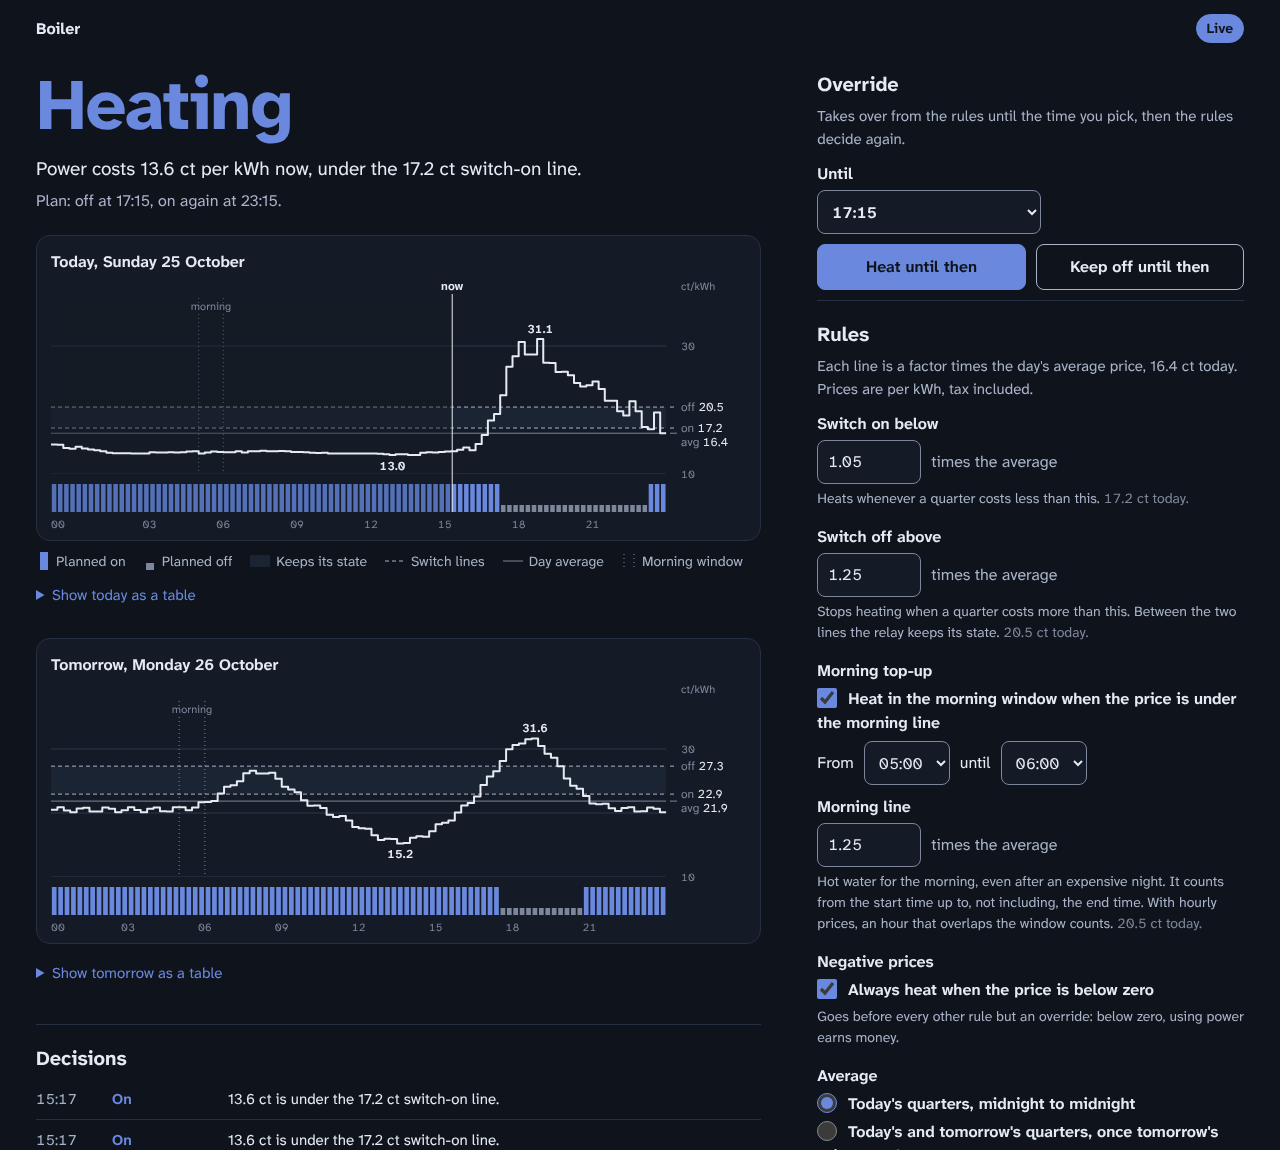
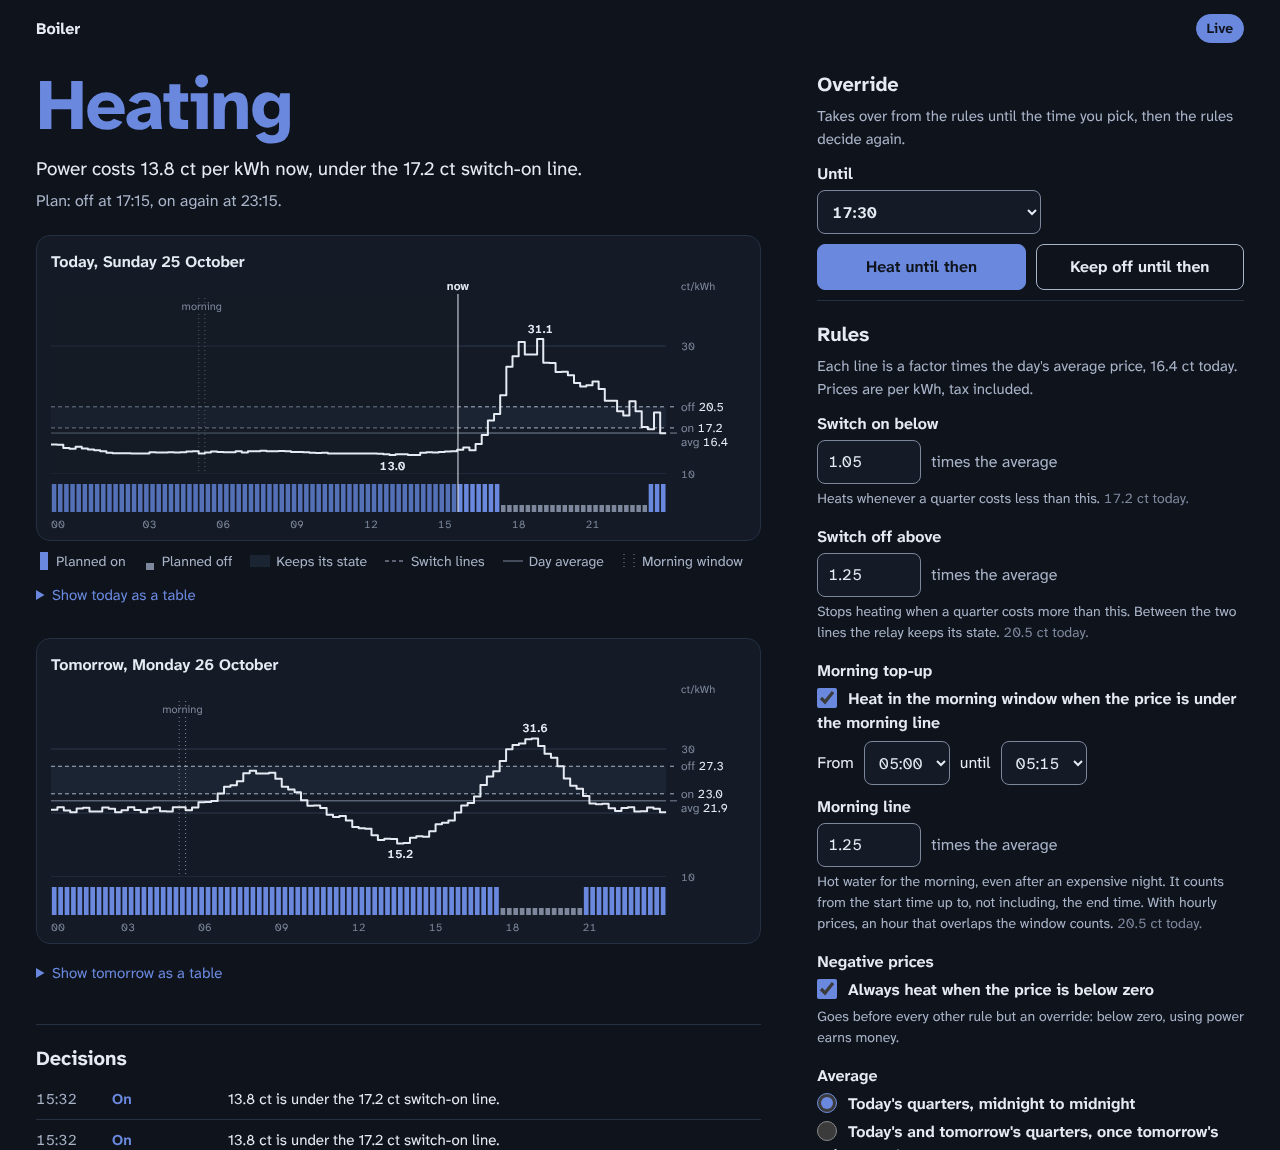
fix: match the live boiler2.sh script, with 3-decimal lines
- The morning rule defaults to the 05:00 quarter only (05:00 to 05:15), as
  the script checks hour 05 and minute 00.
- Lines are factor x the unrounded average, rounded to 3 decimals (0.1 ct),
  so each is at most 0.05 ct from the script's `bc -l` line.
- The README rules table now compares with the live script (1.05/1.25),
  and the docs screenshots show the new morning window.

Claude-Session: https://claude.ai/code/session_016Qm4f92U5yX2oHjW87uW27

diff --git a/shelly_control/templates/index.html b/shelly_control/templates/index.html
@@ -212,7 +212,7 @@
       <li>Over the switch-off line: stop heating.</li>
       <li>Otherwise the relay keeps its state, and nothing is sent.</li>
     </ol>
-    <p>The lines are worked out to four decimals of a euro, as the old script did, and a price exactly on a line keeps the state. Shadow mode makes and logs the same decisions, but only an override switches the relay, and nothing switches it back afterwards. A command is only sent when the relay is not already where the rules want it, and never twice in quick succession.</p>
+    <p>The lines are worked out to 0.1 ct, and a price exactly on a line keeps the state. Shadow mode makes and logs the same decisions, but only an override switches the relay, and nothing switches it back afterwards. A command is only sent when the relay is not already where the rules want it, and never twice in quick succession.</p>
   </details>
 </section>
 </div>

diff --git a/shelly_control/rules.py b/shelly_control/rules.py
@@ -12,15 +12,16 @@ The rules come from the cron script this service replaces, in its order:
 4. a price over the switch-off line switches off;
 5. anything else keeps the relay as it is, and nothing is sent.
 
-Each line is a factor times the day's average price, cut to four decimals the
-way the script's `bc` (scale=4) did, in decimal rather than binary floating
-point. The comparisons are strict, as in the script: a price exactly on a
-line keeps the state.
+Each line is a factor times the day's average price, worked out in decimal
+and rounded to 3 decimals (0.1 ct per kWh, the precision the page shows). The
+comparisons are strict, as in the script: a price exactly on a line keeps the
+state.
 
-The defaults are the factors that reproduce the relay log of the live
-script: 1.05 and 1.25 (the replay matched all five logged switches at the
-exact quarter). The script's published copy says 1.20 and 1.50; the log
-rules those out.
+The defaults are those of the live script (boiler2.sh): on below 1.05 and off
+above 1.25 times the average, and the morning rule only in the 05:00 quarter,
+with the 1.25 line. A replay of the relay log matched all five logged
+switches at the exact quarter with these factors. An older published copy of
+the script said 1.20 and 1.50; the log rules those out.
 """
 
 from __future__ import annotations
@@ -29,7 +30,7 @@ import datetime as dt
 import math
 from collections.abc import Mapping
 from dataclasses import dataclass, replace
-from decimal import ROUND_DOWN, Decimal
+from decimal import ROUND_HALF_UP, Decimal
 from zoneinfo import ZoneInfo
 
 from .prices import PriceBook, Slot, is_complete, local_day
@@ -63,7 +64,7 @@ class Settings:
     off_factor: float = 1.25
     morning_enabled: bool = True
     morning_start: dt.time = dt.time(5, 0)
-    morning_end: dt.time = dt.time(6, 0)
+    morning_end: dt.time = dt.time(5, 15)
     morning_factor: float = 1.25
     negative_enabled: bool = True
     average_window: str = "day"
@@ -291,7 +292,7 @@ class Lines:
     morning_line: float
 
 
-_FOUR_PLACES = Decimal("0.0001")
+_PRECISION = Decimal("0.001")
 
 
 def _decimal(value: float) -> Decimal:
@@ -299,17 +300,19 @@ def _decimal(value: float) -> Decimal:
     return Decimal(repr(value))
 
 
-def _cut(value: Decimal) -> Decimal:
-    """Four decimals, cut off rather than rounded, as `bc` with scale=4 did in the script."""
-    return value.quantize(_FOUR_PLACES, rounding=ROUND_DOWN)
+def _rounded(value: Decimal) -> Decimal:
+    """Three decimals, 0.1 ct per kWh: the precision the page shows."""
+    return value.quantize(_PRECISION, rounding=ROUND_HALF_UP)
 
 
 def lines_for(settings: Settings, book: PriceBook, day: dt.date, tz: ZoneInfo) -> Lines | None:
     """The lines of one local day, or None if that day's prices are incomplete.
 
     Worked out in decimal, so a price the exporter writes as 0.21 is exactly on
-    a line of 0.2100, and keeps the state, as it did in the script. In binary
+    a line of 0.210, and keeps the state, as it did in the script. In binary
     floating point 1.05 x 0.2 is 0.21000000000000002, and 0.21 would be "under" it.
+    Each line comes from the unrounded average, so it is at most 0.05 ct from
+    the script's.
     """
     slots = book.day(day, tz)
     if not is_complete(slots, day, tz):
@@ -322,12 +325,12 @@ def lines_for(settings: Settings, book: PriceBook, day: dt.date, tz: ZoneInfo) -
     # Weighted by length, so a day of hourly fallback prices averages the same
     # way; for a day of equal slots this is the plain mean the script used.
     seconds = sum(s.seconds for s in pool)
-    average = _cut(sum(_decimal(s.total) * s.seconds for s in pool) / seconds)
+    average = sum(_decimal(s.total) * s.seconds for s in pool) / seconds
     return Lines(
-        average=float(average),
-        on_line=float(_cut(_decimal(settings.on_factor) * average)),
-        off_line=float(_cut(_decimal(settings.off_factor) * average)),
-        morning_line=float(_cut(_decimal(settings.morning_factor) * average)),
+        average=float(_rounded(average)),
+        on_line=float(_rounded(_decimal(settings.on_factor) * average)),
+        off_line=float(_rounded(_decimal(settings.off_factor) * average)),
+        morning_line=float(_rounded(_decimal(settings.morning_factor) * average)),
     )
 
 

diff --git a/tests/test_rules.py b/tests/test_rules.py
@@ -49,7 +49,7 @@ def test_defaults_are_the_factors_that_reproduce_the_relay_log():
     assert (s.morning_enabled, s.morning_start, s.morning_end) == (
         True,
         dt.time(5),
-        dt.time(6),
+        dt.time(5, 15),
     )
     assert s.morning_factor == 1.25
     assert s.negative_enabled is True
@@ -94,12 +94,12 @@ def test_a_price_exactly_on_a_line_built_from_prices_keeps_the_state():
     assert decision.rule == "between" and decision.action == "keep"
 
 
-def test_lines_are_cut_to_four_decimals_like_bc():
-    # The average 0.20005 is 0.2000 for bc with scale=4, and so the lines.
-    book = book_of(make_day(NORMAL_DAY, lambda i, local: 0.2001 if i % 2 else 0.2))
+def test_lines_are_rounded_to_three_decimals():
+    # The average 0.2005 shows as 0.201; the line is 1.5 x 0.2005 = 0.30075, so 0.301.
+    book = book_of(make_day(NORMAL_DAY, lambda i, local: 0.201 if i % 2 else 0.2))
     lines = lines_for(Settings(on_factor=1.5), book, NORMAL_DAY, TZ)
-    assert lines.average == 0.2
-    assert lines.on_line == 0.3
+    assert lines.average == 0.201
+    assert lines.on_line == 0.301
 
 
 def test_negative_rule_can_be_turned_off():
@@ -121,11 +121,21 @@ def test_an_average_at_or_below_zero_switches_nothing_but_negative_prices_still_
 def test_morning_window_includes_its_start_and_excludes_its_end(hour, minute, inside):
     # Every quarter costs the same; only the morning line is above that price.
     book = book_of(make_day(NORMAL_DAY, flat(0.20)))
-    settings = Settings(on_factor=0.9, off_factor=1.3, morning_factor=1.1)
+    settings = Settings(on_factor=0.9, off_factor=1.3, morning_factor=1.1, morning_end=dt.time(6))
     decision = decide(settings, book, at(NORMAL_DAY, hour, minute, 30), False, None, TZ)
     assert decision.morning is inside
     assert decision.rule == ("morning" if inside else "between")
     assert decision.target is inside
+
+
+@pytest.mark.parametrize(
+    ("hour", "minute", "inside"), [(4, 45, False), (5, 0, True), (5, 15, False)]
+)
+def test_the_default_morning_window_is_the_0500_quarter_like_the_script(hour, minute, inside):
+    # The live script checks hour == 05 and minute == 00, and cron runs it each quarter.
+    book = book_of(make_day(NORMAL_DAY, flat(0.20)))
+    decision = decide(Settings(), book, at(NORMAL_DAY, hour, minute, 30), False, None, TZ)
+    assert decision.morning is inside
 
 
 def test_morning_window_off_the_hour_works_with_hourly_prices():

diff --git a/tests/test_chart.py b/tests/test_chart.py
@@ -103,8 +103,8 @@ def test_a_partial_day_is_drawn_on_the_whole_day():
 def test_the_morning_window_and_its_own_line_are_drawn():
     settings = Settings(morning_factor=1.10)
     plan, model = chart_for(NORMAL_DAY, at(NORMAL_DAY, 12), settings=settings)
-    assert model.morning.x == minutes(NORMAL_DAY, 5) and model.morning.width == 60
-    assert model.morning_line[:2] == (300, 360)
+    assert model.morning.x == minutes(NORMAL_DAY, 5) and model.morning.width == 15
+    assert model.morning_line[:2] == (300, 315)
     assert "morn" in [r.name for r in model.refs]
     assert any(label.text == "morning" for label in model.labels)
     # With the morning line on the switch-off line, there is no second line to draw.

diff --git a/tests/test_web.py b/tests/test_web.py
@@ -21,7 +21,7 @@ FORM = {
     "off_factor": "1.30",
     "morning_enabled": "on",
     "morning_start": "05:00",
-    "morning_end": "06:00",
+    "morning_end": "05:15",
     "morning_factor": "1.25",
     "negative_enabled": "on",
     "average_window": "day",

diff --git a/README.md b/README.md
@@ -91,14 +91,14 @@ Three layers, each one you can check in a few minutes:
 Every quarter hour, a few seconds after it starts, the first rule that applies
 decides:
 
-| # | Rule | Default | The cron script |
+| # | Rule | Default | The live script (`boiler2.sh`) |
 |---|---|---|---|
 | 1 | **Override**: on or off until a time you pick, then back to the rules | none | (none) |
-| 2 | **No usable price**: no price for this quarter, or not all of today's prices | always | exits without acting |
+| 2 | **No usable price**: no price for this quarter, or not all of today's prices | always | no current price: exits without acting |
 | 3 | **Negative prices**: below zero, heat | on | `price < 0 → on` |
-| 4 | **Morning top-up**: inside the window and under the morning line, heat | on, 05:00 to 06:00, line 1.25 × average | `hour 05 and price < 1.5 × average → on` |
-| 5 | **Switch-on line**: under it, heat | 1.05 × average | `price < 1.2 × average → on` |
-| 6 | **Switch-off line**: over it, stop heating | 1.25 × average | `price > 1.5 × average → off` |
+| 4 | **Morning top-up**: inside the window and under the morning line, heat | on, the 05:00 quarter (05:00 to 05:15), line 1.25 × average | `05:00 and price < 1.25 × average → on` |
+| 5 | **Switch-on line**: under it, heat | 1.05 × average | `price < 1.05 × average → on` |
+| 6 | **Switch-off line**: over it, stop heating | 1.25 × average | `price > 1.25 × average → off` |
 | 7 | **Between the lines**: the relay keeps its state, nothing is sent | | no action |
 
 In plain words: a quarter that costs less than the switch-on line heats, a
@@ -111,27 +111,31 @@ The page can also average today's and tomorrow's quarters once tomorrow's
 prices are known (`day_and_next`; the default is `day`). Prices are Tibber's
 `total`: energy plus tax, per kWh.
 
-The average and the lines are worked out in decimal and cut to four decimals,
-as the script's `bc` (with `scale=4`) did, so a price the exporter writes as
-`0.21` is exactly on a `0.2100` line and keeps the state. Factors take at most
-two decimals.
+The average and the lines are worked out in decimal and rounded to three
+decimals (0.1 ct, as the page shows them), so a price the exporter writes as
+`0.21` is exactly on a `0.210` line and keeps the state. The script's `bc -l`
+keeps 20 decimals; a line here is at most 0.05 ct from the script's.
+Factors take at most two decimals.
 
 The morning window counts a quarter that starts inside it (from the start time
-up to, not including, the end time). With the exporter's hourly fallback
-prices, an hour that overlaps the window counts.
+up to, not including, the end time). The default is the 05:00 quarter only:
+the script runs every quarter and checks for 05:00 exactly. With the
+exporter's hourly fallback prices, an hour that overlaps the window counts, so
+the default window then covers 05:00 to 06:00.
 
-**Why 1.05 and 1.25, not the script's 1.20 and 1.50?** The script's published
-copy says 1.20 and 1.50, but the relay's own log disagrees. Replaying five days
-of real prices (20 to 24 October 2026) with the rules above, switch-on factors
-from 1.03 to 1.05 with switch-off factors from 1.24 to 1.28 reproduce all five
-logged switches at the exact quarter. The boiler's power readings narrow the
-switch-off factor to 1.24 to 1.26: they show it starting at 21:45 on 20 October
-after hours cold, a switch-on that needs a switch-off earlier that evening,
-which 1.27 and up never make. 1.20 and 1.50 reproduce none of the five. The
-replay is a test: [`tests/test_rules.py`](tests/test_rules.py) runs it on
+**Why 1.05 and 1.25?** They are the live script's factors (`boiler2.sh`, run
+by cron). An older published copy of the script says 1.20
+and 1.50 with hourly prices, and the relay's own log rules those out.
+Replaying five days of real prices (20 to 24 October 2026) with the rules
+above, switch-on factors from 1.03 to 1.05 with switch-off factors from 1.24
+to 1.28 reproduce all five logged switches at the exact quarter. The boiler's
+power readings narrow the switch-off factor to 1.24 to 1.26: they show it
+starting at 21:45 on 20 October after hours cold, a switch-on that needs a
+switch-off earlier that evening, which 1.27 and up never make. 1.20 and 1.50
+reproduce none of the five. The replay is a test:
+[`tests/test_rules.py`](tests/test_rules.py) runs it on
 [`tests/fixtures/replay_2026-10-20_to_24.json`](tests/fixtures/replay_2026-10-20_to_24.json)
-(prices only), and checks these ranges. Check the factors in the live script
-before you switch over.
+(prices only), and checks these ranges.
 
 **Shadow and live.** In shadow mode the service makes the same decisions and
 logs them, but sends nothing; "keep" then keeps the state this service *would*
